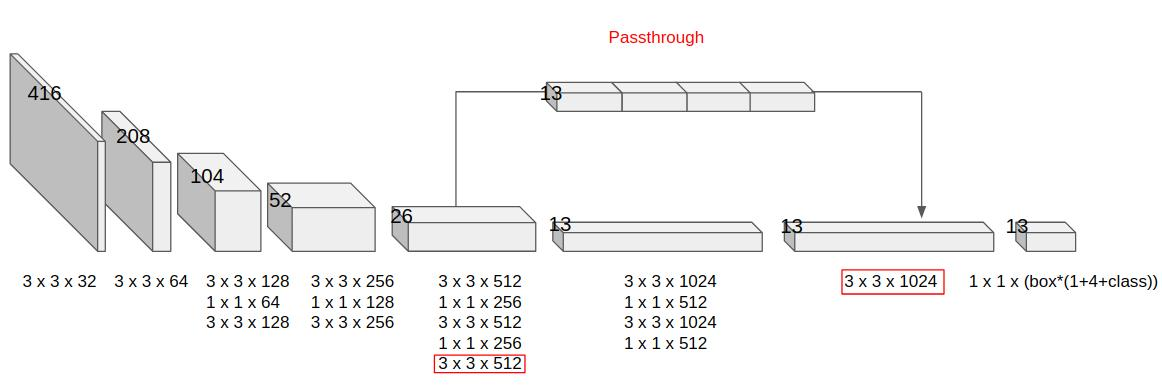
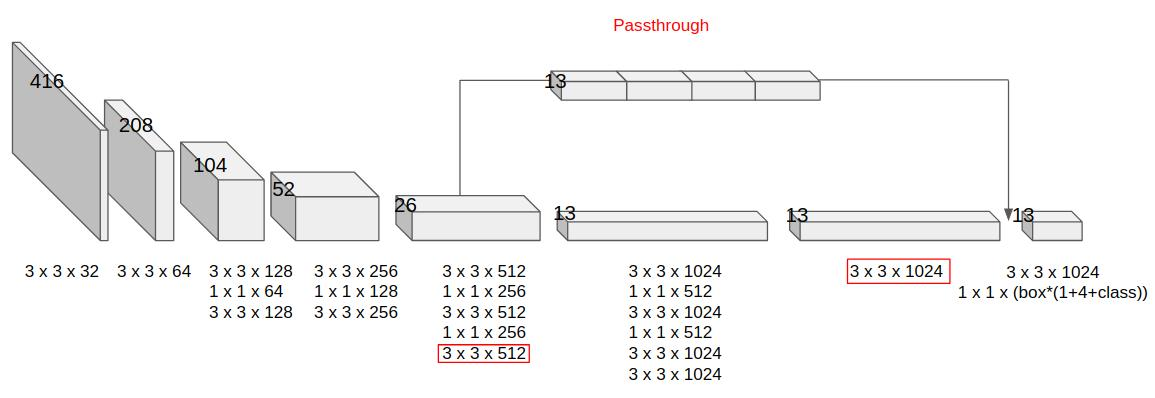
YOLO v2 posting

Changed region(s): [[0.0, 0.0918, 0.9974, 0.9796], [0.374, 0.6735, 0.4675, 0.9796], [0.5299, 0.0306, 0.6234, 0.1224]]

diff --git a/_posts/deep/object_detection/2020-10-15-YOLOv2.md b/_posts/deep/object_detection/2020-10-15-YOLOv2.md
@@ -1,0 +1,193 @@
+---
+title: YOLO v2
+author: Monch
+category: Object Detection
+layout: post
+---
+
+ YOLO 9000이라는 제목으로 나온 이 논문은 YOLO의 후속작으로써 YOLO v2라고도 불린다. 괴짜 답게 소제목을 Better, Faster, Stronger로 구성했으며 빠른 속도와 무려 9000 종류의 물체를 구분하는 등 놀라운 성능을 보인다.
+
+
+
+<br>
+
+<h2>Better</h2>
+
+YOLO는 분명 빠른 속도를 가지고 있었지만 Fast R-CNN과 같은 region proposal model에 비해 낮은 recall을 갖는다. 저자는 다음과 같은 방법으로 recall과 localization 성능을 올리면서 classification 정확도를 유지했다.
+
+<br>
+
+<h3>1.Batch Normalization</h3>
+
+Batch Normalization은 Gradient vanish/ exploding가 internal covariance shift에 의해 일어난다는 가정("[
+How Does Batch Normalization Help Optimization?](https://arxiv.org/abs/1805.11604)"에서는 BN을 써도 internal covariance shift가 일어나기 때문에 직접적인 원인은 아니고 gradient를 좀더 reliable하게 만들어 준다고 한다.)하에 batch 단위로 각 feature들의 평균과 표준편차를 이용해 Normalization하는 방법이다. YOLO 역시 이 방법을 채택하고 dropout을 제거했다. 이로 인해 2%의 mAP를 상승시켰다.
+
+<br>
+
+<h3>2.High Resolution Classifier</h3>
+
+AlexNet에서 시작된 대부분의 분류 모델들은 256 x 256 보다 작은 이미지에서 모델을 훈련했다. YOLO로 역시 pre-trained된 모델을 사용했으며 해당 모델은 224 x 224 크기의 이미지에 대해 훈련되었다. 이로인해 448 x 448 크기의 이미지에 대해 적절한 학습이 되어 있지 않았다. 따라서 YOLO v2는 448 x 448의 크기로 ImageNet에서 약 10 epoch 동안 fine tuning을 진행한다. fine tuning에 의해 약 4%의 mAP를 상승시켰다. 
+
+<br>
+
+<h3>3.Convolutional With Anchor Boxes</h3>
+
+SSD, Faster R-CNN과 달리 YOLO는 가이드라인 없이 bounding box의 정보를 예측 했었다. YOLO v2에서는 다른 모델과 같이 Anchor box를 도입해 가이드라인을 제공한다. 또한, 모델 구조에서 fc layer들을 모두 conv layer로 변경했다. 그리고 마지막 feature map의 경우 큰 object 들은 이미지 중심에 위치하는 경우가 많아 홀수의 크기를 갖는게 좋다고 한다. 이로인해 448 x 448 입력을 416 x 416으로 변경하였다.
+
+anchor box없이 사용했을 때 69.5mAP와 81%의 recall을 얻었고 anchor box를 도입 했을 때 69.2 mAP와 88% recall을 얻었다. 비록 mAP는 낮아졌지만 당초의 목적과 같이 recall의 상승을 얻을 수 있었다.
+
+<br>
+
+<h3>4.Dimension Clusters</h3>
+
+이전의 논문들은 Anchor box의 크기나 종횡비를 사람이 직접 정했다. YOLO v2에서는 단순히 종횡비나 크기를 정해주는 것보다 더 최적의 box가 있을 것이라 판단했고 이를 찾게 된다면 더 쉽게 학습이 이루어 질 것이라고 했다. 논문에서는 training dataset에서 k-mean clustering을 적용해 최적의 anchor box를 찾았다. 일반적인 k-mean clustring은 유클리디안 거리를 사용하지만 bounding box에 대해서는 정확하지 않다. 따라서 거리에 대한 식을 IOU에 대한 식으로 변경했다.
+
+
+$$
+d(box,centroid) = 1-IOU(box,centroid)
+$$
+
+
+<img src="{{'assets/picture/yolo_v2_box1.jpg' | relative_url}}">
+
+<img src="{{'assets/picture/yolo_v2_box2.jpg' | relative_url}}">
+
+
+
+k가 5일 때 모델의 복잡성과 높은 recall사이의 적절한 tradeoff가 일어난다고 한다.
+
+<br>
+
+<h3>5. Direct location prediction</h3>
+
+이전의 anchor box들의 loss에는 제한이 없었다. 이로 인해 중심 셀에서 상당히 떨어진 위치에 bounding box를 예측하는 일이 발생하기도 한다. YOLO v2에는 이에대한 제약사항을 추가하기 위해 sigmoid를 적용한다.
+
+
+$$
+b_{x} = \sigma(t_{x}) + c_{x} \\
+b_{y} = \sigma(t_{y}) + c_{y} \\
+b_{w} = p_{w}e^{t_{w}} \\
+b_{h} = p_{h}e^{t_{h}} \\
+Pr(object) * IOU(b,object) = \sigma(t_{o})
+$$
+
+
+여기서 $$t_{xx}$$들은 network의 output을 나타낸다. 이로 인해 5%의 성능을 향상 시킬 수 있었다고 한다.
+
+<br>
+
+<h3>6.Find-Grained Features</h3>
+
+<img src="{{'assets/picture/yolo_v2_architecture.jpg' | relative_url}}">
+
+YOLO v2의 최종 output은 13 x 13 grid이다. 이전 버전에 대해 작은 물체에 대한 성능이 뒤떨어진다라는 평이 있었다. 그래서 상위에 26 x 26 크기를 가지는 feature을 4등분 하여 마지막 convolution 전에 합쳐준다(Passthrough layer). 이로인해 1%의 성능을 향상 시킬 수 있었는데 데이터셋의 대부분이 어느정도의 크기를 갖는 점을 생각하면 꽤 많이 오른것 같다.
+
+<br>
+
+<h3>7.Multi-Scale Training</h3>
+
+YOLO v2는 이전 버전과 달리 fully convolutional network이다. 저자는 이 강점을 살려서 다양한 scale에 적응한 network를 만들었다. 저자가 제시하는 방법은 다음과 같다. input image의 size를 항상 고정하지 않고 매 10 batch 단위로 다양한 image size를 갖는다. 이때 이미지 사이즈는 32의 배수로 설정하며 최소 320부터 608의 범위를 갖는다.
+
+아래는 PSACAL VOC 2007 dataset에서 각 이미지 사이즈별 정확도와 속도를 보여준다.
+
+<img src="{{'assets/picture/yolo_v2_table3.jpg' | relative_url}}">
+
+<br>
+
+아래 표는 YOLO v1과 각 방법들을 적용했을 때의 정확도를 보여준다.
+
+<img src="{{'assets/picture/yolo_v2_table2.jpg' | relative_url}}">
+
+<h2>Fater</h2>
+
+VGG16은 높은 정확도로 많은 모델에서 사용된다. 하지만 224 x 224 크기의 이미지를 입력으로 받았을 때 30.69 billion 만큼의 부동 연산이 요구된다. 이전의 YOLO는 VGG16 대신 8.52 billion 연산을 요구하는 GoogleNet을 사용했지만 VGG를 채택했을 때 90.9%의 정확도를 가진 반면 GoogleNet을 채택했을 때 88.0%로 정확도가 낮아졌었다.
+
+ 따라서 논문의 저자는 VGG와 유사하지만 NIN 논문의 1 x 1 conv layer를 적극 활용하고 훈련의 안정화, 수렴의 속도 향상, 모델의 정규화에 효과적이라는 BatchNormailization을 사용하는 모델을 설계한다. 이 모델의 이름은 Darknet-19라고 지었으며 5.58 billion 연산 요구량과 이미지넷에서 top-1 72.9%,  top-5 91.2%의 정확도를 획득했다. 아래는 입력 224 x 224 일때의 DarkNet layer들의 커널 정보, output shape을 보여준다.
+
+<img src="{{'assets/picture/yolo_v2_table6.jpg' | relative_url}}">
+
+<br>
+
+<h3>Training for classification</h3>
+
+train은 2단계로 나뉜다.
+
+- 공통사항
+  - Dataset : ImageNet
+  - Optimizer : Stochastic gradient descent(momentum = 0.9, weight decay = 0.0005)
+  - Data augmentation: random crop,rotations,hue,saturation,exposure shifts
+- Initial training
+  - Input image shape : 224 x 224
+  - Epochs : 160
+  - learning rate : 0.1 and Polynomial rate decay with a power of 4
+- fine tuning
+  - Input image shape : 448 x 448
+  - Epochs : 10
+  - learning rate : 0.001
+
+fine tuning 기준으로 top-1은 76.5%, top-5는 93.3%의 정확도를 획득했다.
+
+<br>
+
+<h3>Training for Detection</h3>
+
+Detection을 할 때는 마지막 convolution layer를 제거하고 3개의 3 x 3 x 1024 conv layer과 1 x 1 x (B x (class+1+4)) conv layer를 추가한다. 또한 마지막 3 x 3 x 512 conv layer에 의한 passthrough layer를 마지막에서 2번째 3 x 3 x 1024 layer의 output과 concate 한다(6. Find-Grained Features의 그림 참고).
+
+다른 training 환경은 아래와 같다.
+
+- Epochs : 160
+- Learning rate : 0.001, 이후 60 epoch 와 90 epoch에서 1/10
+- Optimizer는 classification과 동일
+- Data augmentation : YOLO, SSD에서 사용한 것과 random crops, color shifting
+
+<br>
+
+<h2>Stronger</h2>
+
+YOLO v2는 2개의 Data를 섞어 train 하는 방법을 제시한다. Classification Data와 Detection Data를 섞어서 쓰는 경우 Detection의 backpropagation은 그대로 진행하고 Classification일 경우 Classification에 대한 backpropation만 진행한다. 
+
+여기서 문제가 되는 것은 label인데 논문에서 예로 든 것은 COCO와 ImageNet이다. COCO의 경우 "dog"와 같은 상위 개념의 label을 제공하며 ImageNet의 경우 "노퍽 테리어", "요크셔 테리어" 등의 하위 개념의 label을 제공한다. 이를 위해 WordNet이라는 directed graph구조의 language Database를 사용하고 만약 해당 단어가 여러개의 부모를 가지는 경우 루트 노드까지 짧은 경로를 선택한다.
+
+
+
+<img src="{{'assets/picture/yolo_v2_wordnet.jpg' | relative_url}}">
+
+<img src="{{'assets/picture/yolo_v2_wordnet2.jpg' | relative_url}}">
+
+
+
+이 과정에서 "cannine(강아지와 늑대같은 개과동물)"과 같이 실제 label에는 없는 단어도 추가되어 COCO의 200개 라벨과 ImageNet의 1000개 라벨 숫자를 합친 것 보다 많은 1369개의 label이 생겼다. class에 대해서는 위의 2번째 그림과 같이 동일한 상위를 가지는 class끼리 softmax 연산을 하고 모든 label의 공통적인 루트 노드는 physical object로 object를 포함한다고 판단되면 $$Pr(physical object) =1$$이다. 하위 노드가 존재하더라도 계산은 실제 label 기준으로만 계산하며 예시로 "노퍽 테리어"에 대한 확률은 아래와 같이 계산된다.
+
+
+$$
+Pr(Norfolk \ terrier) = Pr(Norfolk \ terrier \mid terrier) \times \\
+Pr(terrier \mid hunting dog) \times ... \times \\ Pr(mammal \mid animal) \times Pr(animal|physical object)
+$$
+
+
+Darknet-19 기준으로 top-1은 71.9%, top-5는 90.4%의 정확도를 획득했다. 이로인한 이점은 처음 본 강아지 품종에 대해 정확도가 낮아지지만 여전히 "dog"에 대한 확률은 높게 나온다는 것이다. 또한, 루트 노드인 "physical object"가 값을 가질 때 bounding box의 예측이 가능하다.
+
+<br>
+
+YOLO 9000은 이 방식을 사용해 9000개의 class를 학습한다. Full ImageNet dataset은 몇 만개의 class를 가지고 있는데 이 중 top 9000을 선택했다. 그리고 ImageNet에 비해 COCO의 양이 너무 적어 oversampling을 해 4:1 비율을 맞췄다. 그리고 anchor box는 output size의 제한으로 인해 5개 대신 3개로 사용했다. classification image에 대해서는 class에 대해 가장 높은 probability를 가지는 box에 대해서만 class에 대한 backpropagation을 진행했다. 또한, detection image 이미지에서는 ground truth와 0.3 이상의 IOU를 가지는 box에 대해 loss를 backpropagation했다.
+
+
+
+<img src="{{'assets/picture/yolo_v2_result.jpg' | relative_url}}">
+
+
+
+YOLO9000은 training 되지 않은 156 개의 객체 클래스에서 16.0mAP, training된 label에 대해서는 전체적으로 19.7mAP의 성능을 보였다. 이 수치는 DPM보다 높은 수치를 보여주며 완전히 다른 데이터세트에서 train 되었다는 차별점이 있다.
+
+위의 결과는 YOLO 9000의 Worst와 Best class를 보여주는데 COCO에서 나오는 사람, 의류 등에 관련된 정보들은 bounding box에 대한 label이 없어서 성능이 낮은 것으로 판단하고 있다. 또한, 두개의 데이터세트에서 공통적으로 나오는 동물에 관해서는 높은 성능을 보여준다.
+
+
+
+<br>
+
+<br>
+
+<h3>Reference</h3>
+
+[1] J. Redmon, A. Farhadi. YOLO9000:Better, Faster, Stronger. In CVPR, 2017
+
